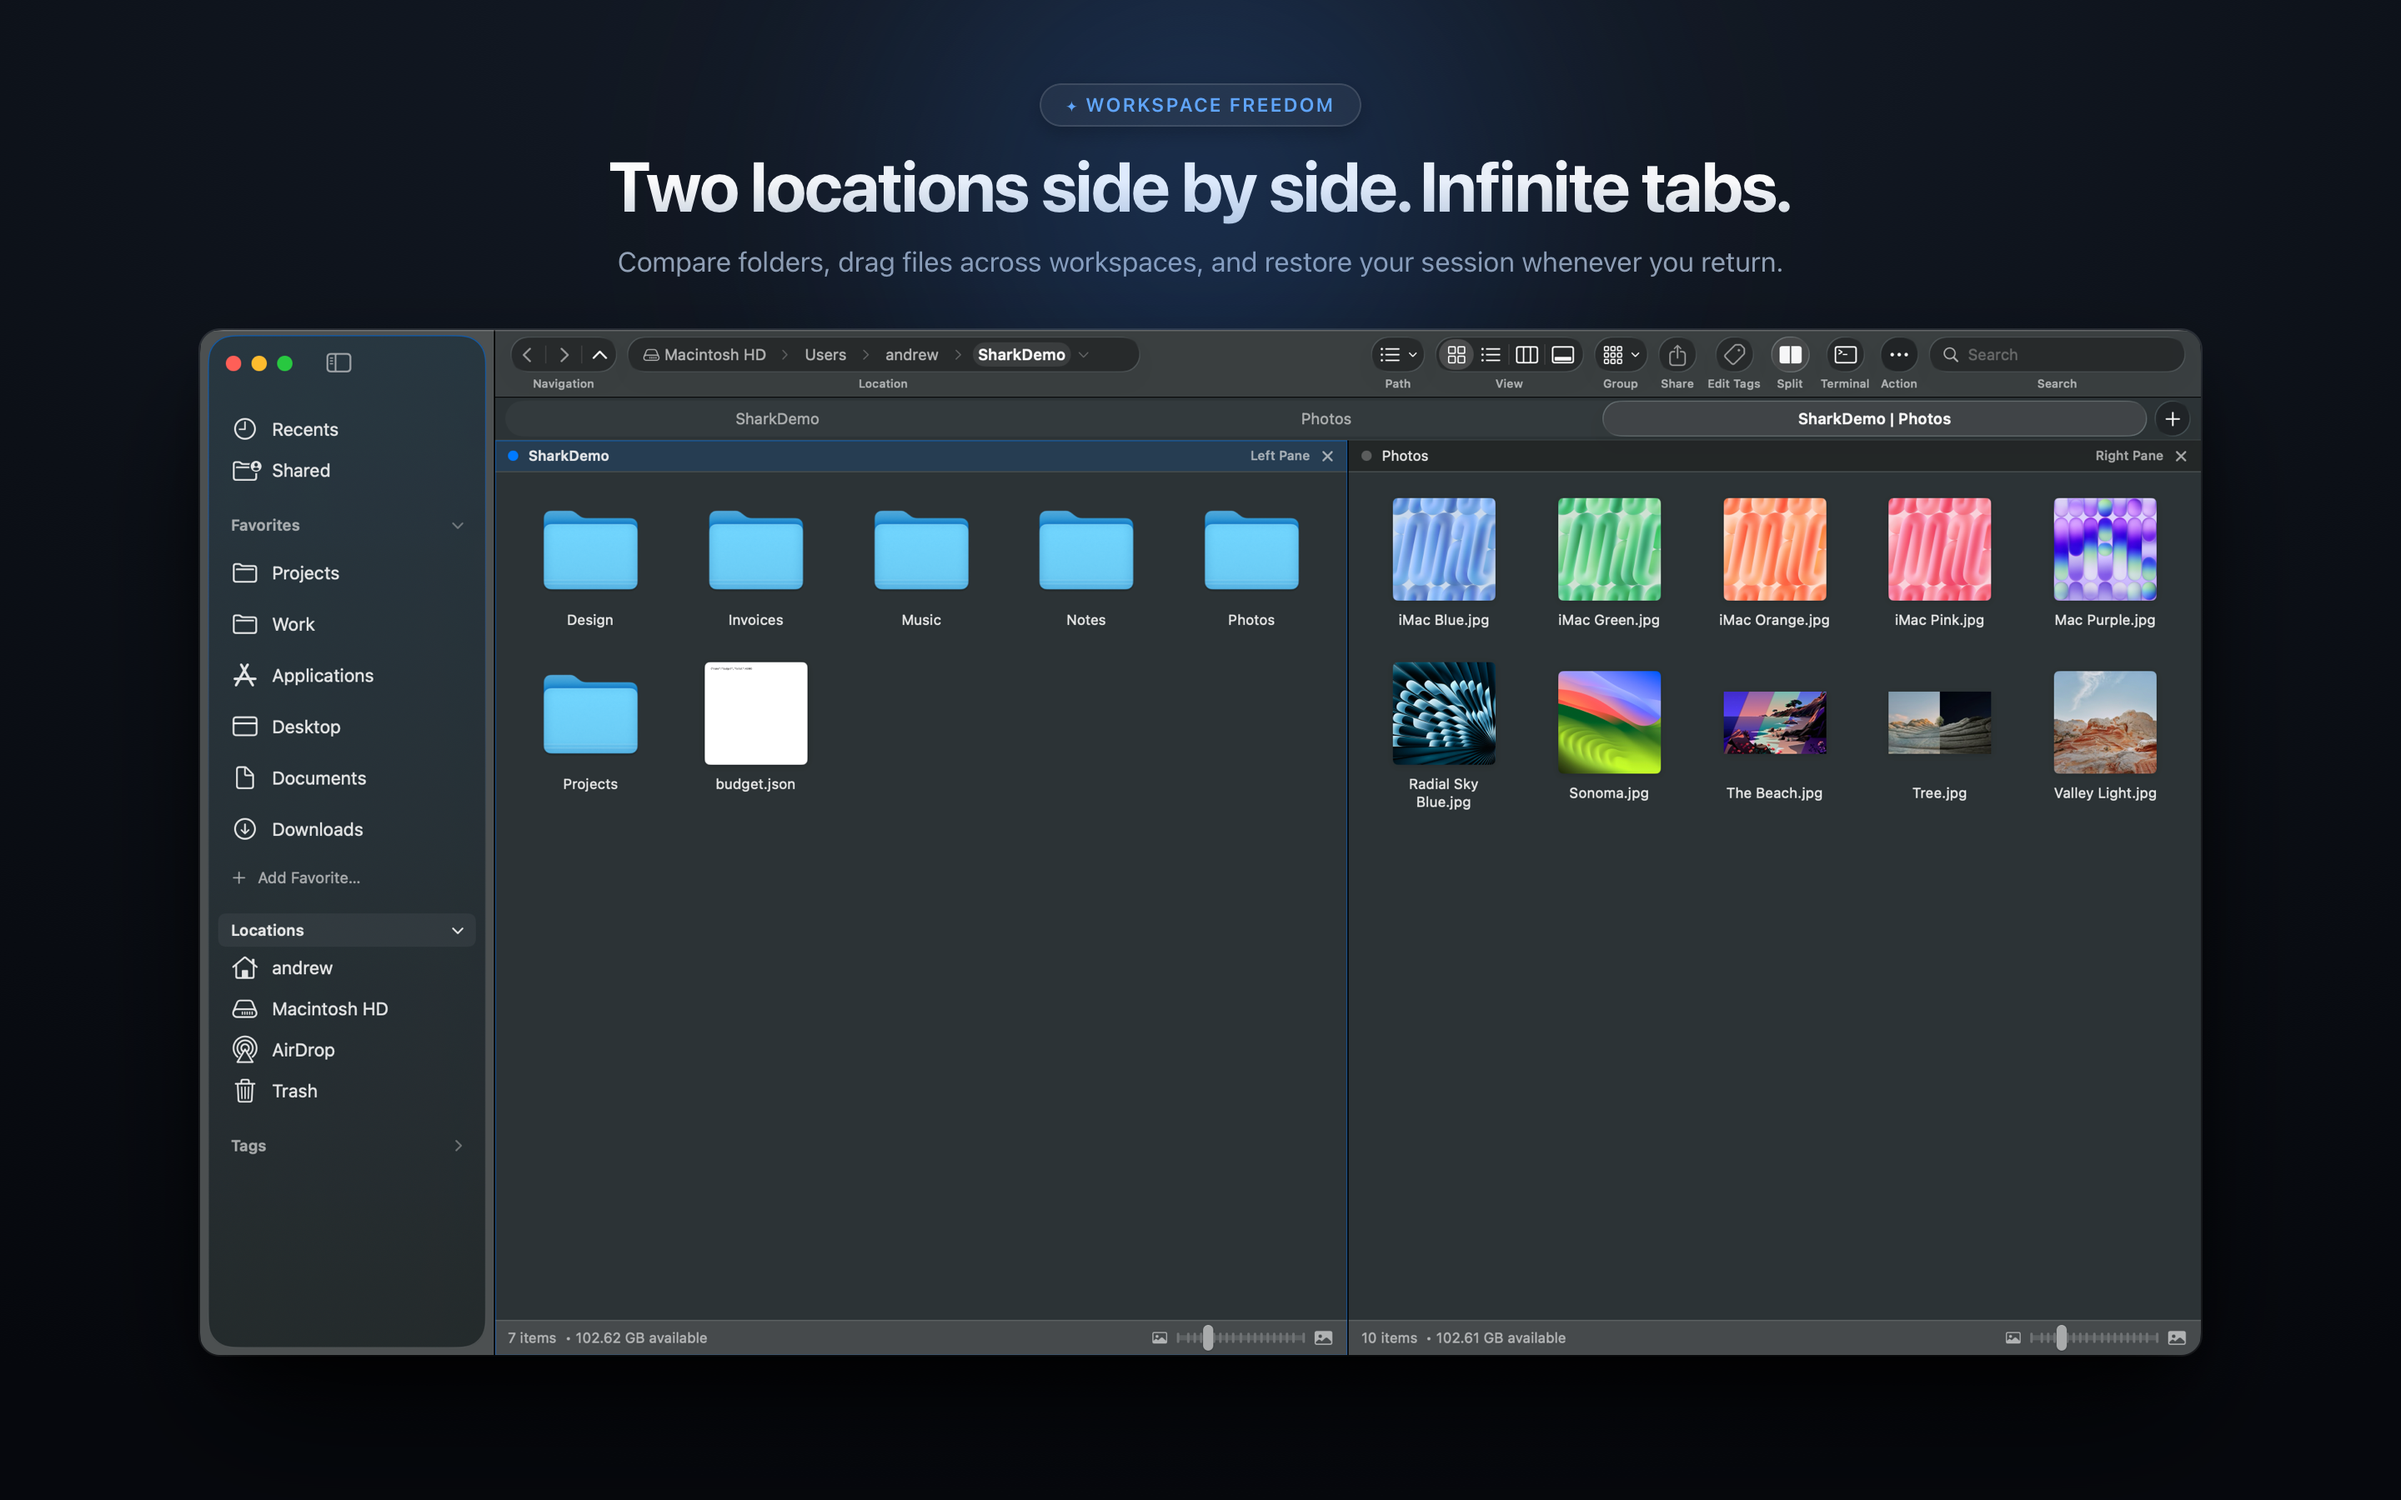
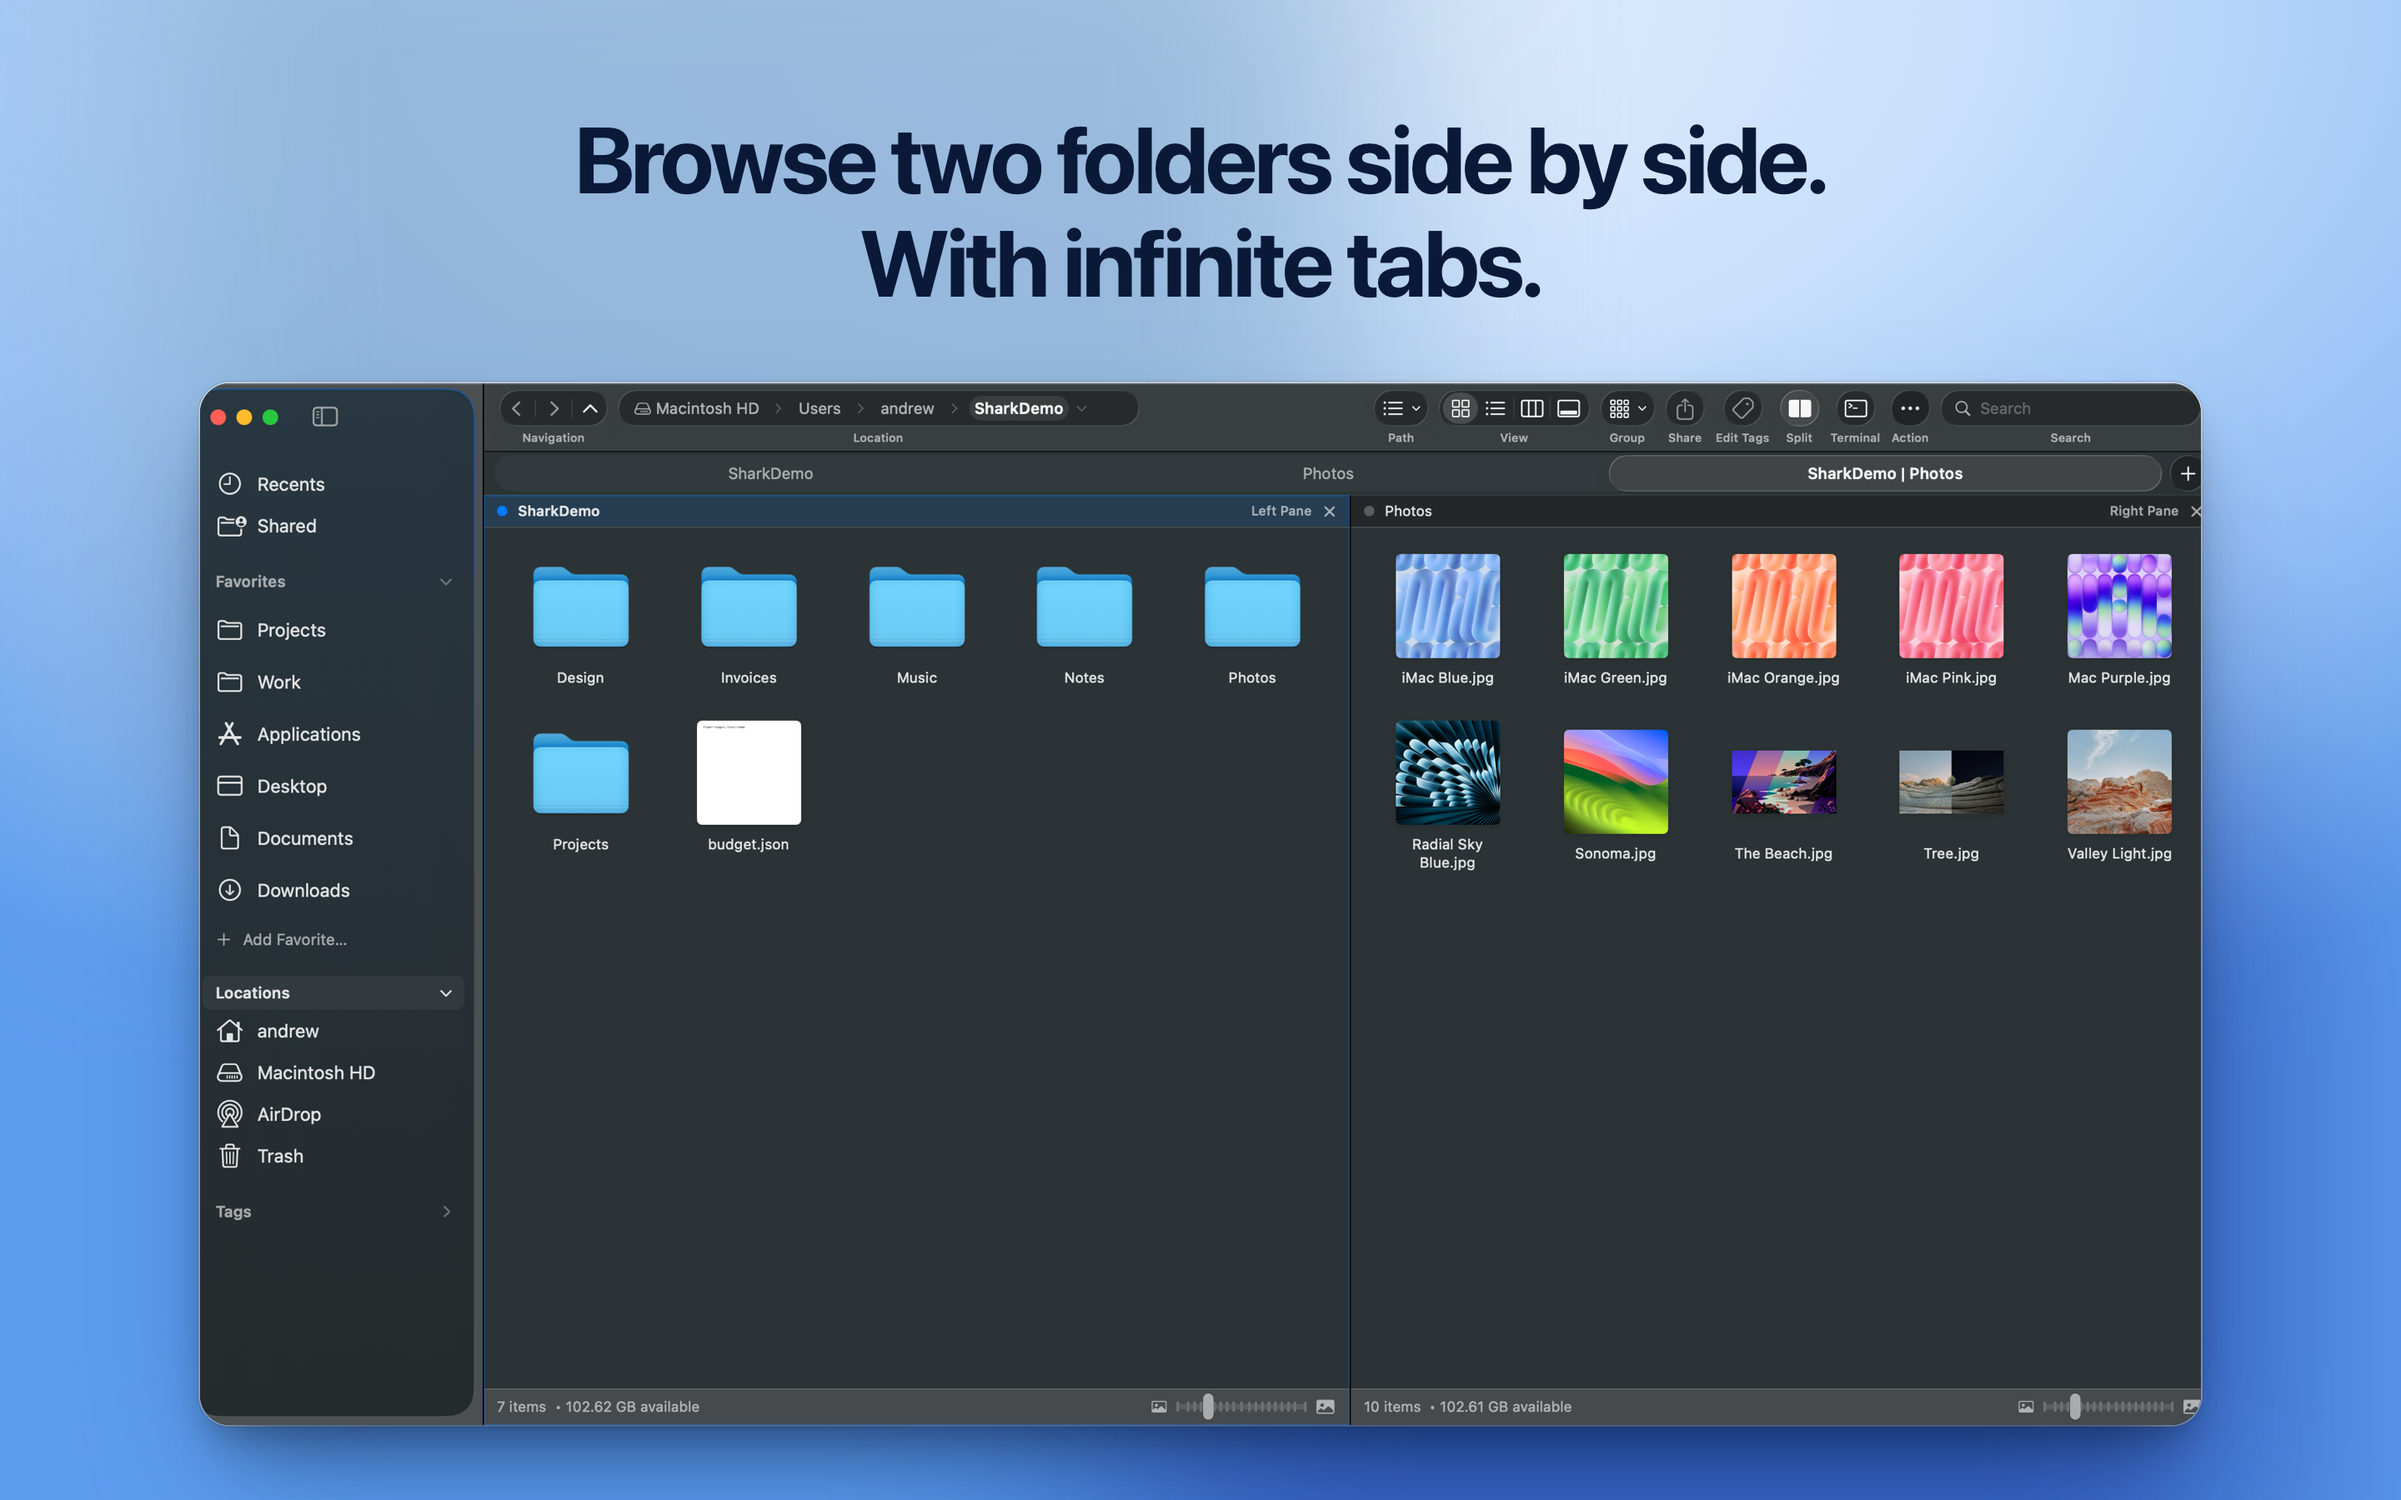
docs(screenshots): match Sketch Product Hunt design with single headline per slide

diff --git a/scripts/generate-screenshots.swift b/scripts/generate-screenshots.swift
@@ -3,58 +3,64 @@ import WebKit
 
 struct ScreenshotConfig {
     let filename: String
-    let badge: String
-    let badgeColor: String
     let headline: String
-    let subheadline: String
-    let glowColor: String
+    let textColor: String
+    let bgGradient: String
+    let glowTL: String
+    let glowBR: String
+    let shadowAmbient: String
     let sourceImage: String
 }
 
 let configs: [ScreenshotConfig] = [
     ScreenshotConfig(
         filename: "01-tabs-and-split.png",
-        badge: "Workspace Freedom",
-        badgeColor: "#60a5fa",
-        headline: "Two locations side by side. Infinite tabs.",
-        subheadline: "Compare folders, drag files across workspaces, and restore your session whenever you return.",
-        glowColor: "rgba(56, 138, 255, 0.22)",
+        headline: "Browse two folders side by side.<br>With infinite tabs.",
+        textColor: "#0A1938",
+        bgGradient: "radial-gradient(85% 75% at 50% 0%, #E6F1FE 0%, #C8E0FB 38%, #93BFF6 72%, #5D9DEE 100%)",
+        glowTL: "rgba(134, 172, 211, 0.8)",
+        glowBR: "rgba(1, 16, 133, 0.45)",
+        shadowAmbient: "rgba(10, 50, 120, 0.38)",
         sourceImage: "docs/screenshots/tabs-and-split.png"
     ),
     ScreenshotConfig(
         filename: "02-hover-preview.png",
-        badge: "Instant Previews",
-        badgeColor: "#a78bfa",
-        headline: "Preview anything without losing your place.",
-        subheadline: "Inspect images, video, code, and documents with rich floating cards, metadata, and Quick Look.",
-        glowColor: "rgba(167, 139, 250, 0.24)",
+        headline: "Preview documents, code, and media<br>without opening them.",
+        textColor: "#42141A",
+        bgGradient: "radial-gradient(85% 75% at 50% 0%, #FFF0ED 0%, #FDD7D1 38%, #FCAFA5 72%, #F88A7D 100%)",
+        glowTL: "rgba(253, 197, 198, 0.85)",
+        glowBR: "rgba(245, 90, 85, 0.45)",
+        shadowAmbient: "rgba(140, 30, 40, 0.35)",
         sourceImage: "docs/screenshots/hover-preview.png"
     ),
     ScreenshotConfig(
         filename: "03-subfolder-navigation.png",
-        badge: "Lightning Navigation",
-        badgeColor: "#38bdf8",
-        headline: "Traverse nested folders at the speed of thought.",
-        subheadline: "Cascading popups let you dive straight into deep directories without opening cluttered windows.",
-        glowColor: "rgba(56, 189, 248, 0.22)",
+        headline: "Fly through nested folders<br>at the speed of thought.",
+        textColor: "#082C24",
+        bgGradient: "radial-gradient(85% 75% at 50% 0%, #E8FAF6 0%, #C7F4EC 38%, #8EE5D8 72%, #4CCFBD 100%)",
+        glowTL: "rgba(175, 245, 235, 0.85)",
+        glowBR: "rgba(30, 180, 160, 0.45)",
+        shadowAmbient: "rgba(15, 90, 80, 0.35)",
         sourceImage: "docs/screenshots/subfolder-menu.png"
     ),
     ScreenshotConfig(
         filename: "04-integrated-terminal.png",
-        badge: "Developer Tools",
-        badgeColor: "#34d399",
-        headline: "An integrated terminal right where your files live.",
-        subheadline: "Toggle an embedded zsh drawer with ⌘` automatically synced to your active directory.",
-        glowColor: "rgba(52, 211, 153, 0.20)",
+        headline: "A built-in terminal synced right<br>to your active folder.",
+        textColor: "#1F1142",
+        bgGradient: "radial-gradient(85% 75% at 50% 0%, #F3EDFF 0%, #DFD3FE 38%, #BFA7FD 72%, #9570F8 100%)",
+        glowTL: "rgba(220, 205, 255, 0.85)",
+        glowBR: "rgba(125, 75, 230, 0.45)",
+        shadowAmbient: "rgba(70, 30, 130, 0.38)",
         sourceImage: "docs/screenshots/terminal.png"
     ),
     ScreenshotConfig(
         filename: "05-native-mac-craft.png",
-        badge: "Native macOS Craft",
-        badgeColor: "#38bdf8",
-        headline: "Fast, sandboxed, and 100% private.",
-        subheadline: "Pure Swift performance, familiar keyboard shortcuts, dark mode, and zero cloud tracking.",
-        glowColor: "rgba(56, 189, 248, 0.20)",
+        headline: "Fast, lightweight, and completely<br>private on your Mac.",
+        textColor: "#0E1B32",
+        bgGradient: "radial-gradient(85% 75% at 50% 0%, #F0F4FA 0%, #DCE5F3 38%, #BDCEE5 72%, #8FAACC 100%)",
+        glowTL: "rgba(210, 225, 245, 0.85)",
+        glowBR: "rgba(50, 90, 160, 0.45)",
+        shadowAmbient: "rgba(25, 55, 105, 0.35)",
         sourceImage: "docs/screenshots/tabs-and-split.png"
     )
 ]
@@ -71,74 +77,59 @@ func generateHTML(config: ScreenshotConfig, base64Image: String) -> String {
         width: 1440px;
         height: 900px;
         overflow: hidden;
-        background: radial-gradient(120% 100% at 50% 0%, #151d2a 0%, #0c1017 50%, #06080d 100%);
-        font-family: -apple-system, BlinkMacSystemFont, "SF Pro Display", "SF Pro Text", "Helvetica Neue", sans-serif;
-        color: #ffffff;
+        position: relative;
         display: flex;
         flex-direction: column;
         align-items: center;
-        position: relative;
-        padding-top: 50px;
+        padding-top: 64px;
+        font-family: -apple-system, BlinkMacSystemFont, "SF Pro Display", "SF Pro", "Helvetica Neue", sans-serif;
         -webkit-font-smoothing: antialiased;
+        background: \(config.bgGradient);
       }
-      .ambient-glow {
+      .mesh-glow-tl {
         position: absolute;
         top: -120px;
-        left: 50%;
-        transform: translateX(-50%);
-        width: 860px;
-        height: 480px;
-        background: radial-gradient(circle, \(config.glowColor) 0%, rgba(20, 30, 50, 0.05) 55%, transparent 75%);
-        filter: blur(65px);
+        left: 5%;
+        width: 750px;
+        height: 600px;
+        background: \(config.glowTL);
+        filter: blur(85px);
         pointer-events: none;
       }
-      .badge {
-        display: inline-flex;
-        align-items: center;
-        gap: 6px;
-        padding: 5px 15px;
-        background: rgba(255, 255, 255, 0.05);
-        border: 1px solid rgba(255, 255, 255, 0.12);
-        border-radius: 999px;
-        font-size: 11.5px;
-        font-weight: 600;
-        letter-spacing: 0.08em;
-        text-transform: uppercase;
-        color: \(config.badgeColor);
-        margin-bottom: 12px;
-        backdrop-filter: blur(14px);
-        box-shadow: 0 4px 12px rgba(0, 0, 0, 0.2);
+      .mesh-glow-br {
+        position: absolute;
+        bottom: -120px;
+        right: 5%;
+        width: 700px;
+        height: 550px;
+        background: \(config.glowBR);
+        filter: blur(95px);
+        pointer-events: none;
       }
       .headline {
-        font-size: 42px;
+        position: relative;
+        z-index: 10;
+        font-size: 56px;
         font-weight: 700;
-        letter-spacing: -0.03em;
+        letter-spacing: -0.038em;
         line-height: 1.12;
         text-align: center;
         max-width: 980px;
-        background: linear-gradient(180deg, #ffffff 45%, #cbd5e1 100%);
-        -webkit-background-clip: text;
-        -webkit-text-fill-color: transparent;
-        margin-bottom: 10px;
-      }
-      .subheadline {
-        font-size: 16.5px;
-        font-weight: 400;
-        color: #94a3b8;
-        text-align: center;
-        max-width: 820px;
-        line-height: 1.45;
-        margin-bottom: 30px;
+        color: \(config.textColor);
+        margin-bottom: 42px;
       }
       .window-stage {
         position: relative;
+        z-index: 10;
         width: 1200px;
-        height: 615px;
-        border-radius: 12px;
+        height: 625px;
+        border-radius: 18px;
         box-shadow: 
-          0 40px 90px -15px rgba(0, 0, 0, 0.9),
-          0 18px 35px -10px rgba(0, 0, 0, 0.65),
-          0 0 0 1px rgba(255, 255, 255, 0.12);
+          0 45px 110px -20px \(config.shadowAmbient),
+          0 25px 50px -15px rgba(0, 0, 0, 0.40),
+          0 10px 20px -5px rgba(0, 0, 0, 0.20),
+          0 0 0 1px rgba(255, 255, 255, 0.50),
+          0 0 0 1.5px rgba(0, 0, 0, 0.12);
         overflow: hidden;
         background: #14181f;
       }
@@ -152,10 +143,9 @@ func generateHTML(config: ScreenshotConfig, base64Image: String) -> String {
     </style>
     </head>
     <body>
-      <div class="ambient-glow"></div>
-      <div class="badge">✦ \(config.badge)</div>
+      <div class="mesh-glow-tl"></div>
+      <div class="mesh-glow-br"></div>
       <h1 class="headline">\(config.headline)</h1>
-      <p class="subheadline">\(config.subheadline)</p>
       <div class="window-stage">
         <img src="\(base64Image)" />
       </div>
